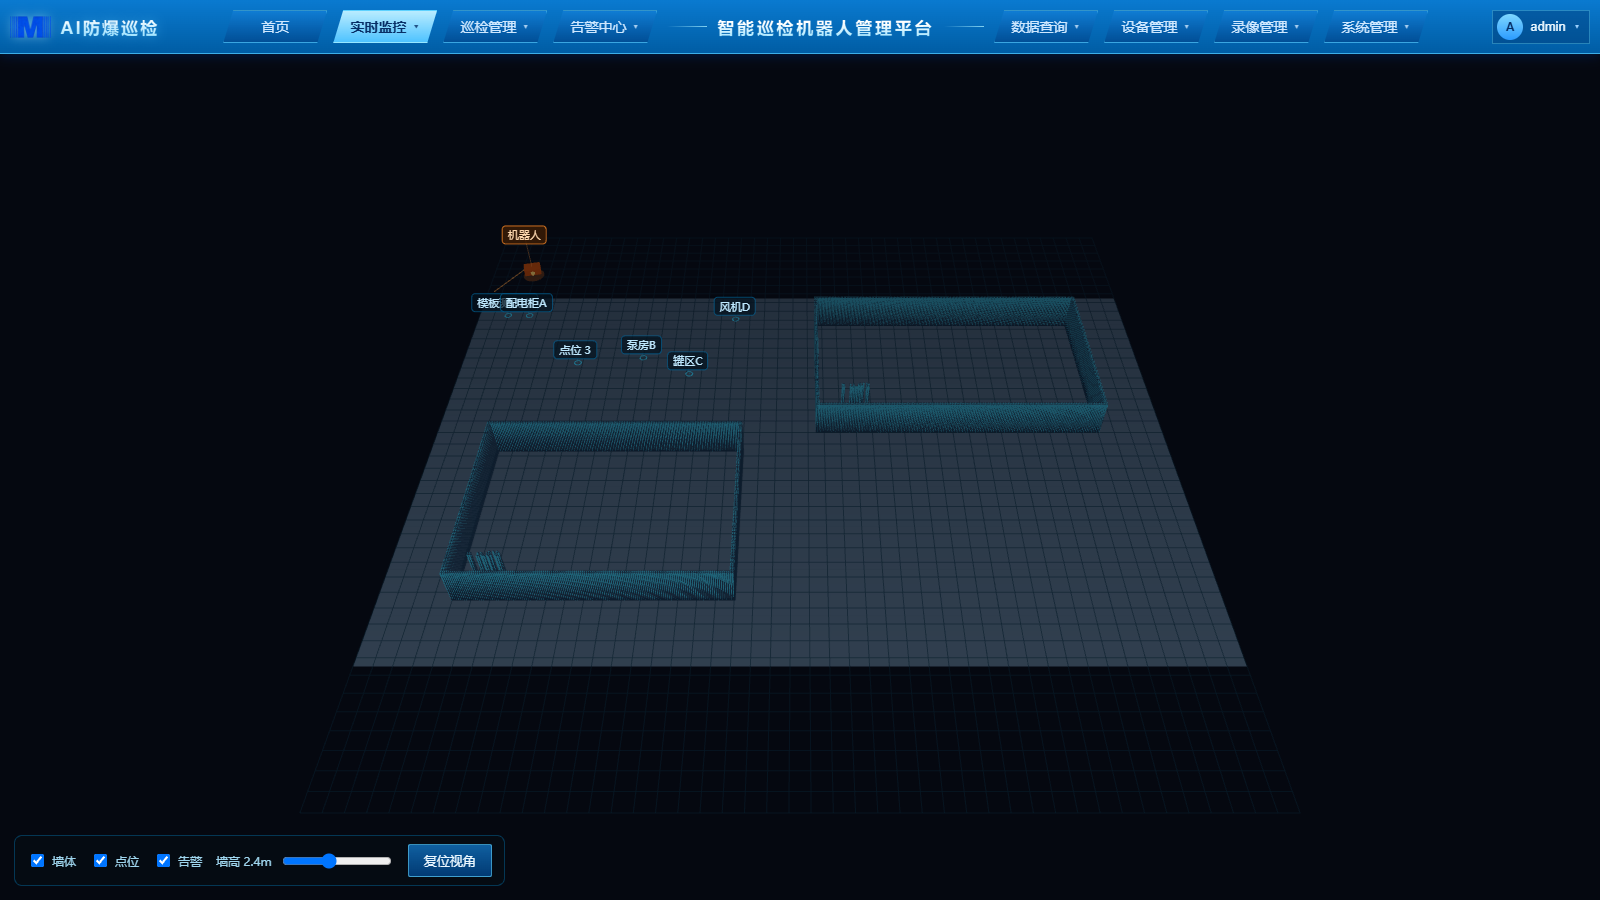
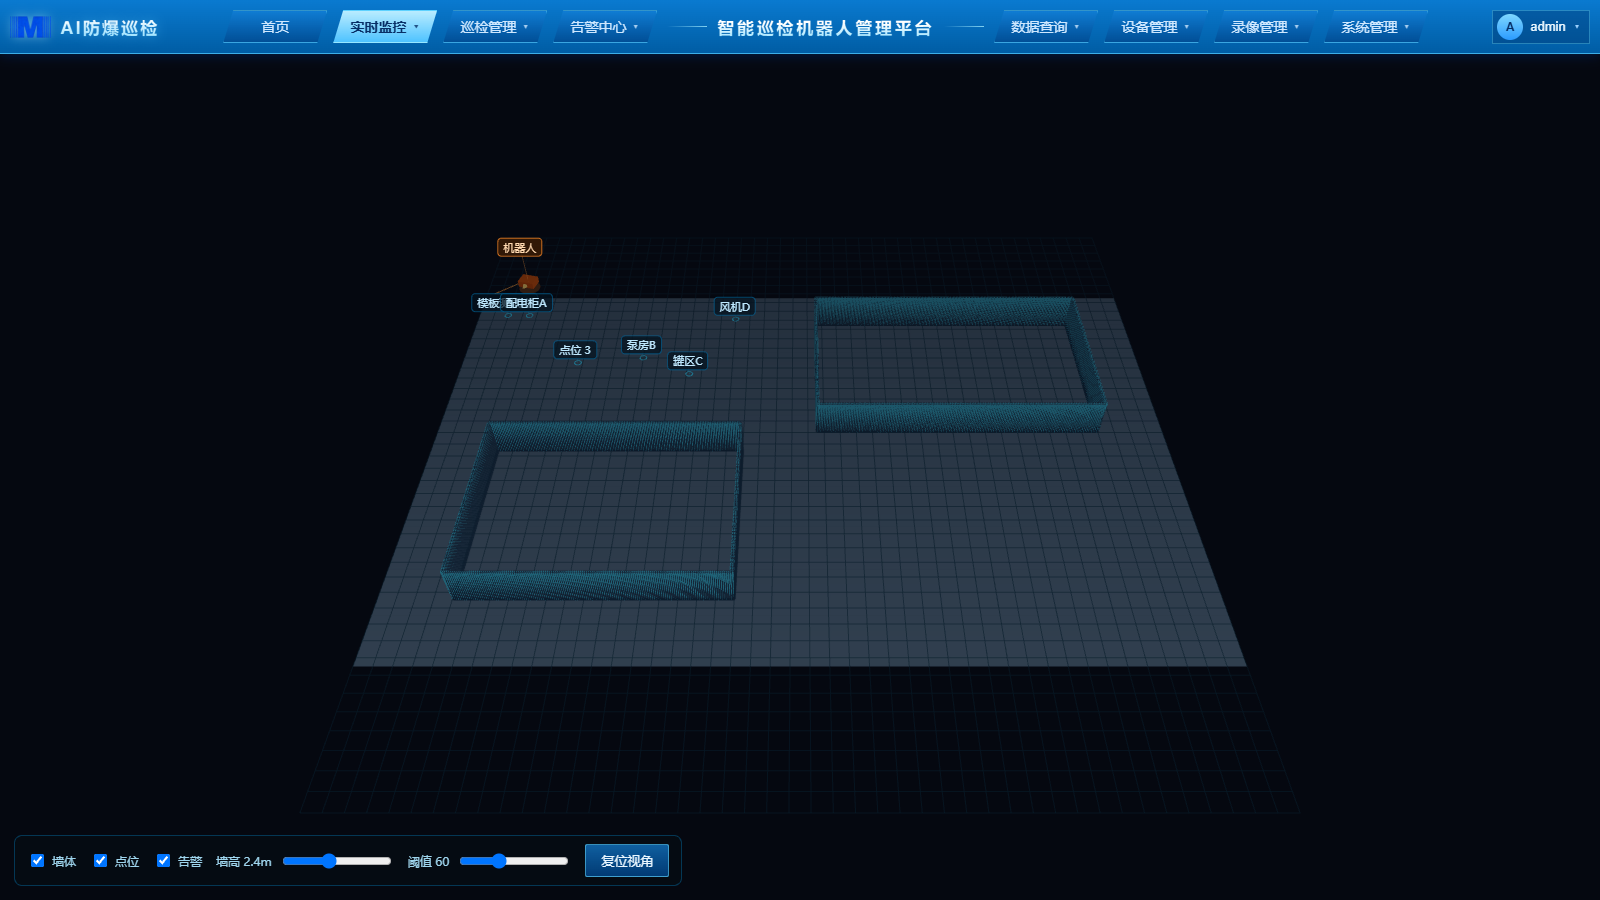
feat(3d): 栅格清理 + 阈值滑杆（豆包评审第一条：脏栅格是程序化 3D 第一杀手）
- 墙体生成前加 3x3 多数滤波 + 去孤立点（邻居<2 不建）；墙体实例 2194 -> 2136，锯齿明显减少
- 新增阈值滑杆 30–120（现场可调，换地图/换灯光不用改代码）
- 墙体/描边一起开关；地面抬高到 -0.01 避免 z-fighting
- 豆包短问答结论并入方案文档：B 方案只补 5–10 个关键 GLB（不做全站复刻）；
  高度分层（建筑/围栏/门洞）列为 P1；核显三优化已在文档

实测：/twin 无 page error，FPS 18（无头软件渲染），截图已更新
豆包评审：docs/reviews/model_review_20261028-123800.md

Changed region(s): [[0.25, 0.9333, 0.4375, 0.9956], [0.3125, 0.2489, 0.3438, 0.3422]]

diff --git a/web/src/pages/Twin.vue b/web/src/pages/Twin.vue
@@ -22,6 +22,7 @@ const wallsOn = ref(true)
 const pointsOn = ref(true)
 const alarmsOn = ref(true)
 const height = ref(2.4)
+const threshold = ref(60)
 const loading = ref(true)
 const err = ref('')
 const info = ref({ map: '', points: 0, walls: 0, pose: '' })
@@ -44,6 +45,8 @@ const lerpPos = new THREE.Vector3()
 const lerpYaw = { v: 0 }
 const trailPts: THREE.Vector3[] = []
 let wallBase: Float32Array | null = null
+let wallEdges: THREE.InstancedMesh | null = null
+let gridData: { data: Uint8ClampedArray; w: number; h: number } | null = null
 let wallCount = 0
 let meta = { res: 0.05, ox: -10, oy: -8, w: 900, h: 600 }
 
@@ -92,6 +95,7 @@ async function build() {
     const ctx = canvas.getContext('2d')!
     ctx.drawImage(img, 0, 0)
     const data = ctx.getImageData(0, 0, img.width, img.height).data
+    gridData = { data, w: img.width, h: img.height }
 
     // ---------- 场景 ----------
     scene = new THREE.Scene()
@@ -140,7 +144,7 @@ async function build() {
     })
     const ground = new THREE.Mesh(new THREE.PlaneGeometry(worldW, worldH), groundMat)
     ground.rotation.x = -Math.PI / 2
-    ground.position.set(cx, -0.02, cy)
+    ground.position.set(cx, -0.01, cy)
     scene.add(ground)
 
     const grid = new THREE.GridHelper(Math.max(worldW, worldH), Math.round(Math.max(worldW, worldH)), 0x0a4a6a, 0x072434)
@@ -164,24 +168,63 @@ async function build() {
 
 function buildWalls(data: Uint8ClampedArray, w: number, h: number) {
   if (!scene) return
+  // 1) 占据判定：阈值可调（豆包：脏栅格是程序化 3D 第一杀手）
+  const mask = new Uint8Array(w * h)
+  for (let i = 0; i < w * h; i++) {
+    const idx = i * 4
+    const lum = data[idx] * 0.299 + data[idx + 1] * 0.587 + data[idx + 2] * 0.114
+    if (lum < threshold.value) mask[i] = 1
+  }
+  // 2) 3x3 多数滤波：去掉人影/噪点造成的锯齿墙
+  const clean = new Uint8Array(w * h)
+  for (let row = 1; row < h - 1; row++) {
+    for (let col = 1; col < w - 1; col++) {
+      let n = 0
+      for (let dr = -1; dr <= 1; dr++) {
+        for (let dc = -1; dc <= 1; dc++) n += mask[(row + dr) * w + (col + dc)]
+      }
+      if (n >= 5) clean[row * w + col] = 1
+    }
+  }
+  // 3) 去孤立点：邻居 < 2 的格子不建墙
+  const keep: [number, number][] = []
+  for (let row = 1; row < h - 1; row++) {
+    for (let col = 1; col < w - 1; col++) {
+      if (!clean[row * w + col]) continue
+      const n = clean[row * w + col - 1] + clean[row * w + col + 1]
+        + clean[(row - 1) * w + col] + clean[(row + 1) * w + col]
+      if (n >= 2) keep.push([col, row])
+    }
+  }
+
   const step = 2
+  const cells: [number, number][] = []
+  for (const [col, row] of keep) {
+    if (col % step === 0 && row % step === 0) cells.push([col, row])
+  }
+  if (cells.length > 16000) {
+    for (let i = cells.length - 1; i > 0; i -= 2) cells.splice(i, 1)
+  }
+
+  // 重建前先清掉旧的墙
+  if (wallMesh) {
+    scene.remove(wallMesh)
+    wallMesh.geometry.dispose()
+    ;(wallMesh.material as THREE.Material).dispose()
+    wallMesh = null
+  }
+  if (wallEdges) {
+    scene.remove(wallEdges)
+    wallEdges.geometry.dispose()
+    ;(wallEdges.material as THREE.Material).dispose()
+    wallEdges = null
+  }
+
   const boxGeo = new THREE.BoxGeometry(meta.res * step, 1, meta.res * step)
   const mat = new THREE.MeshStandardMaterial({
     color: 0x1d3d59, emissive: 0x0c2940, emissiveIntensity: 0.65,
     roughness: 0.75, metalness: 0.2, transparent: true, opacity: 0.72,
   })
-  const cells: [number, number][] = []
-  for (let row = 0; row < h; row += step) {
-    for (let col = 0; col < w; col += step) {
-      const idx = (row * w + col) * 4
-      const lum = data[idx] * 0.299 + data[idx + 1] * 0.587 + data[idx + 2] * 0.114
-      if (lum < 100) cells.push([col, row])
-    }
-  }
-  if (cells.length > 16000) {
-    // 太密就隔一个取一个，保证核显也能跑
-    for (let i = cells.length - 1; i > 0; i -= 2) cells.splice(i, 1)
-  }
   wallCount = cells.length
   info.value.walls = cells.length
   wallMesh = new THREE.InstancedMesh(boxGeo, mat, cells.length)
@@ -197,19 +240,24 @@ function buildWalls(data: Uint8ClampedArray, w: number, h: number) {
     wallMesh!.setMatrixAt(i, dummy.matrix)
   })
   wallMesh.instanceMatrix.needsUpdate = true
+  wallMesh.visible = wallsOn.value
   scene.add(wallMesh)
 
-  // 描边：让方块看起来像"全息线框"
   const edgeGeo = new THREE.EdgesGeometry(boxGeo)
   const edgeMat = new THREE.LineBasicMaterial({ color: 0x3ee0ff, transparent: true, opacity: 0.5 })
-  const edges = new THREE.InstancedMesh(edgeGeo as unknown as THREE.BufferGeometry, edgeMat, cells.length)
+  wallEdges = new THREE.InstancedMesh(edgeGeo as unknown as THREE.BufferGeometry, edgeMat, cells.length)
   cells.forEach((_, i) => {
     const m4 = new THREE.Matrix4()
     wallMesh!.getMatrixAt(i, m4)
-    edges.setMatrixAt(i, m4)
+    wallEdges!.setMatrixAt(i, m4)
   })
-  edges.instanceMatrix.needsUpdate = true
-  scene.add(edges)
+  wallEdges.instanceMatrix.needsUpdate = true
+  wallEdges.visible = wallsOn.value
+  scene.add(wallEdges)
+}
+
+function rebuildWalls() {
+  if (gridData) buildWalls(gridData.data, gridData.w, gridData.h)
 }
 
 function label(text: string, cls = ''): HTMLDivElement {
@@ -461,11 +509,14 @@ onBeforeUnmount(() => {
         <span>FPS：{{ fps }}</span>
       </div>
       <div class="ctrl">
-        <label><input v-model="wallsOn" type="checkbox" @change="wallsOn ? (wallMesh && (wallMesh.visible = true)) : (wallMesh && (wallMesh.visible = false))" /> 墙体</label>
+        <label><input v-model="wallsOn" type="checkbox" @change="(wallMesh && (wallMesh.visible = wallsOn)) || (wallEdges && (wallEdges.visible = wallsOn))" /> 墙体</label>
         <label><input v-model="pointsOn" type="checkbox" @change="pointGroup && (pointGroup.visible = pointsOn)" /> 点位</label>
         <label><input v-model="alarmsOn" type="checkbox" @change="alarmGroup && (alarmGroup.visible = alarmsOn)" /> 告警</label>
         <label class="range">墙高 {{ height.toFixed(1) }}m
           <input v-model.number="height" type="range" min="0.5" max="5" step="0.1" @input="applyHeight" />
+        </label>
+        <label class="range">阈值 {{ threshold }}
+          <input v-model.number="threshold" type="range" min="30" max="120" step="5" @change="rebuildWalls" />
         </label>
         <button class="btn btn-xs" @click="resetCamera">复位视角</button>
       </div>

diff --git a/docs/3D建模与数字孪生方案.md b/docs/3D建模与数字孪生方案.md
@@ -2,7 +2,7 @@
 
 > 输入：`docs/评审-3D建模方案-prompt.md`（我们的真实约束）+ GLM 评审（`docs/reviews/model_review_20261028-121810.md`）
 > + 我们自己的全栈/产品视角。
-> 豆包这次两次请求都超时（>10 分钟无返回），本轮结论以 GLM + 实测原型为准；豆包补跑后会附在文末。
+> 豆包长文请求两次超时，随后用短问答拿到了结论（`docs/reviews/model_review_20261028-123800.md`），与 GLM 一致：**A 先上、B 只补 5–10 个关键设备 GLB**。
 > **本文不是 PPT，下面所有"已实现"都有截图和代码位置。**
 
 ---
@@ -35,6 +35,8 @@
 | 真数据联动 | ✅ | ✅（要标定） | ✅ | ✅ |
 
 **决策**：A 打底（覆盖 90% 场景、零边际成本），B 作为"客户愿意出钱/给模型"时的增值项。
+
+豆包的补充很关键：**B 不要做全站复刻，只补 5–10 个关键资产**（储罐、管廊、泵撬、出入口、主体建筑）——识别度上去了，成本只有全站建模的 1/5。
 
 ---
 
@@ -159,6 +161,8 @@ UI 左侧 2D 地图点 3 个、右侧 3D 模型点 3 个，实时显示每对点
 | # | 事项 | 为什么 |
 |---|---|---|
 | 1 | 位姿 WS 推送（10Hz + 前端插值） | 1Hz 轮询会让机器人"瞬移"，是 3D 观感的第一杀手 |
+| 1b | **脏栅格清理**（已做：3×3 多数滤波 + 去孤立点 + 阈值滑杆 30–120） | 人影/噪点会把墙拉成锯齿（豆包点名第一杀手） |
+| 1c | 高度分层：建筑高、围栏低、门洞不拉伸 | 现在所有障碍同高，会像"围墙堵门"（豆包第二点） |
 | 2 | 在客户工控机实测 FPS | 软件渲染 17fps 不能当结论 |
 | 3 | GLB 导入 + 4 点标定工具 | 客户给模型时的增值路径 |
 | 4 | 轨迹回放（24h） | 验收指标之一，也最能证明"真" |
@@ -170,4 +174,6 @@ UI 左侧 2D 地图点 3 个、右侧 3D 模型点 3 个，实时显示每对点
 ## 附：模型输入
 
 - GLM：选 A、3 天上、B 三周后补、C 不碰；给了网格/材质/描边/后处理/坐标坑/性能预算/验收指标/话术（详见 `docs/reviews/model_review_20261028-121810.md`）。
-- 豆包：两次请求超时（>10 分钟无返回），未拿到结论；补跑后追加。
+- 豆包：长文两次超时；短问答成功（`docs/reviews/model_review_20261028-123800.md`）——
+  选 A、B 只补 5–10 个关键 GLB；脏栅格（阈值 30–60 + 形态学）、高度分层、核显三优化；
+  "只能改一处"= 投 5–10 个关键设备 GLB 并精确落位。

diff --git a/docs/reviews/model_review_20261028-123800.md b/docs/reviews/model_review_20261028-123800.md
@@ -1,0 +1,34 @@
+# 模型评审记录 20261028-123800
+
+## 豆包 doubao-seed-evolving
+
+## 结论与执行
+
+1. **选 A，A 先上、B 后补成立。**  
+   Vue3 + Three.js：PNG 按 `resolution/origin` 铺地，过滤后的占据栅格拉伸成体块，复用现有点位、机器人、告警、轨迹。B 后期只补 **5–10 个关键 GLB**：储罐、管廊、泵撬、出入口、主体建筑，不做全站复刻。C 三天内集成和二开风险高，D 不满足 3D 大屏诉求。
+
+2. **程序化 3D 最容易翻车的 3 点：**
+   - **脏栅格**：人影、动态设备、噪点被拉成锯齿墙；阈值取 `30–60`，做中值/闭运算，删除 `<0.5 m²` 碎块。
+   - **2D 缺高度信息**：所有障碍同高会像围墙且堵门；建筑、设备、围栏分高度，门洞不拉伸。
+   - **性能和遮挡**：逐格建 Box、Z-fighting、轨迹埋地；静态体块合并，地面抬高 `0.01–0.02m`，相机用 `35°–45°` 俯视。
+
+3. **坐标对齐最易错：**  
+   PNG 行坐标翻转，以及把 SLAM 的世界 `y` 当成 Three.js 的高度 `y`。统一换算：
+
+   `col=(x-origin_x)/resolution`  
+   `row=H-1-(y-origin_y)/resolution`
+
+   Three 中地面坐标用 `(worldX, 0, worldY)`，高度另用 `y`；GLB 原点放在底座中心并贴地。用机器人原点和两个已知点位校验。
+
+4. **核显 30fps 的 3 条优化：**
+   - 占据格降采样到 `0.25–0.5m`，用合并几何体或 `InstancedMesh`，静态场景尽量 1 个 draw call。
+   - `setPixelRatio(min(devicePixelRatio, 1.5))`，关闭阴影，贴图不超过 `2048`，只保留 1–2 盏灯。
+   - 轨迹/告警用 `BufferGeometry`、Points 或图集，轨迹控制在 `2000–5000` 点，不做每点 CSS3D 标签。
+
+5. **领导说“不像我们场站”时：**  
+   “这版是 SLAM 数据驱动的坐标底模，优先保证点位、轨迹、告警实时、精准对齐，三天可演示；外观复原需要关键设备模型。下一步替换储罐、管廊、建筑等少量 GLB，识别度会明显提升。”
+
+6. **只能改一处：**  
+   投 **5–10 个关键设备 GLB 并精确落位**，不要精修全部墙体。
+
+**最终路线：A 做三天演示，B 只补关键资产；先保坐标准、帧率稳，再逐步提升外观相似度。**
